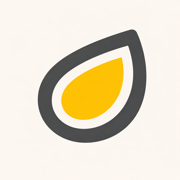
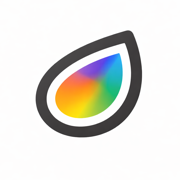
feat: PWA图标更新、字号自定义、餐次判断优化及多项改进
- 更换PWA图标为新设计
- 添加用户自定义字号滑块（我的页面），存localStorage动态生效
- 修复餐次判断：优先用户文本 > 时间推断，避免AI误判为加餐
- 饮食计划弹窗固定最小高度，空状态显示引导提示
- 清理旧预设方案的localStorage残留数据
- 记录页每餐标题旁显示总热量标签
- AI信息收集prompt优化：要求同时收集吃什么和什么时间

Made-with: Cursor

diff --git a/src/pages/Profile.tsx b/src/pages/Profile.tsx
@@ -1,4 +1,4 @@
-import { useState, useMemo } from 'react';
+import { useState, useMemo, useCallback } from 'react';
 import { createPortal } from 'react-dom';
 import { useApp, UserProfile, WeightLog } from '../context/AppContext';
 import { motion, AnimatePresence } from 'motion/react';
@@ -261,6 +261,9 @@ export default function Profile() {
           </div>
         </button>
       </div>
+
+      {/* Font Size Card */}
+      <FontSizeSlider language={language} />
 
       {/* Edit Modal */}
       {createPortal(
@@ -667,5 +670,55 @@ function Row({
         <ChevronRight size={16} className="text-stone-300" />
       </div>
     </button>
+  );
+}
+
+function FontSizeSlider({ language }: { language: 'en' | 'zh' }) {
+  const isZh = language === 'zh';
+  const isStandalone = window.matchMedia('(display-mode: standalone)').matches;
+  const defaultSize = isStandalone ? 18 : 16;
+  const [fontSize, setFontSize] = useState(() => {
+    const saved = localStorage.getItem('app_font_size');
+    return saved ? Number(saved) : defaultSize;
+  });
+
+  const handleChange = useCallback((value: number) => {
+    setFontSize(value);
+    localStorage.setItem('app_font_size', String(value));
+    document.documentElement.style.fontSize = `${value}px`;
+  }, []);
+
+  const handleReset = useCallback(() => {
+    handleChange(defaultSize);
+  }, [defaultSize, handleChange]);
+
+  return (
+    <div className="bg-white rounded-2xl p-4 shadow-sm border border-stone-100">
+      <div className="flex items-center justify-between mb-3">
+        <span className="text-stone-500 text-sm">{isZh ? '字体大小' : 'Font Size'}</span>
+        <button
+          onClick={handleReset}
+          className="text-xs text-stone-400 hover:text-stone-600 transition-colors"
+        >
+          {isZh ? '恢复默认' : 'Reset'}
+        </button>
+      </div>
+      <div className="flex items-center gap-3">
+        <span className="text-xs text-stone-400 shrink-0">A</span>
+        <input
+          type="range"
+          min={14}
+          max={22}
+          step={1}
+          value={fontSize}
+          onChange={e => handleChange(Number(e.target.value))}
+          className="flex-1 accent-stone-900"
+        />
+        <span className="text-lg text-stone-400 shrink-0">A</span>
+      </div>
+      <div className="text-center mt-2">
+        <span className="text-xs text-stone-400">{fontSize}px</span>
+      </div>
+    </div>
   );
 }

diff --git a/src/components/MealPlansModal.tsx b/src/components/MealPlansModal.tsx
@@ -85,17 +85,31 @@ export default function MealPlansModal({ isOpen, onClose, initialPlan }: MealPla
 
             {/* Content */}
             {!selectedPlan ? (
-              <div className="overflow-y-auto p-5">
-                <div className="space-y-3">
-                  {allPlans.map(plan => (
-                    <SwipeablePlanItem 
-                      key={plan.id} 
-                      plan={plan} 
-                      onClick={() => setSelectedPlan(plan)}
-                      onDelete={() => deleteMealPlan(plan.id)}
-                    />
-                  ))}
-                </div>
+              <div className="overflow-y-auto p-5 min-h-[420px]">
+                {allPlans.length > 0 ? (
+                  <div className="space-y-3">
+                    {allPlans.map(plan => (
+                      <SwipeablePlanItem 
+                        key={plan.id} 
+                        plan={plan} 
+                        onClick={() => setSelectedPlan(plan)}
+                        onDelete={() => deleteMealPlan(plan.id)}
+                      />
+                    ))}
+                  </div>
+                ) : (
+                  <div className="flex flex-col items-center justify-center h-full min-h-[360px] text-center">
+                    <div className="w-16 h-16 rounded-full bg-stone-100 flex items-center justify-center mb-4">
+                      <Bookmark size={28} className="text-stone-300" />
+                    </div>
+                    <p className="text-base font-medium text-stone-700 mb-2">
+                      {language === 'zh' ? '饮食计划待添加' : 'No meal plans yet'}
+                    </p>
+                    <p className="text-sm text-stone-400 max-w-[220px]">
+                      {language === 'zh' ? '请在对话页面中点击「生成计划」按钮' : 'Tap "Generate Plan" on the chat page to create one'}
+                    </p>
+                  </div>
+                )}
               </div>
             ) : (
               <>

diff --git a/src/services/ai.ts b/src/services/ai.ts
@@ -258,10 +258,17 @@ Tone & style:
 Your coaching process has 3 phases. Phases MUST proceed in order: 1 → 2 → 3. You MUST NOT skip any phase.
 
 **Phase 1: Information Collection**
-Collect these 8 items one at a time:
-  1) breakfast  2) lunch  3) dinner  4) snacks
-  5) sleep  6) hydration  7) exercise  8) stress & emotional eating
-- Ask exactly one question per turn. Naturally acknowledge the user's answer, then ask the next uncollected item. Do NOT skip any item, do NOT combine multiple questions.
+Collect these items one at a time. For each item, you need BOTH the content AND the timing/frequency. If the user only provides one aspect (e.g. only timing but not what they eat, or only food but not timing), follow up to get the missing info before moving on.
+  1) Breakfast — what they typically eat AND roughly what time
+  2) Lunch — what they typically eat AND roughly what time
+  3) Dinner — what they typically eat AND roughly what time
+  4) Snacks — any snacks/drinks between meals, what kind
+  5) Sleep — bedtime, wake time, sleep quality
+  6) Hydration — daily water intake amount
+  7) Exercise — type, frequency, intensity
+  8) Stress & emotional eating — any stress eating habits or cravings
+- Ask exactly one question per turn. Naturally acknowledge the user's answer, then ask the next uncollected item or follow up for missing details. Do NOT skip any item, do NOT combine multiple questions.
+- IMPORTANT: The goal is to understand WHAT they eat, not just WHEN. If the user only tells you meal times without describing food content, you MUST follow up asking what they usually eat for that meal before moving on.
 - Do NOT analyze, give advice, or generate a meal plan during this phase.
 - If user sends an image, acknowledge briefly and ask the next question. No nutritional analysis, no :::meal_log:::, no "已记录".
 - If user mentions water intake, treat it as their hydration answer and continue.

diff --git a/src/pages/Record.tsx b/src/pages/Record.tsx
@@ -543,7 +543,14 @@ function MealCard({ id, title, items, onEdit, onRemove, emptyText }: {
 }) {
   return (
     <div id={id} className="scroll-mt-6">
-      <h3 className="font-serif text-xl font-medium text-stone-500 mb-3 tracking-tight">{title}</h3>
+      <div className="flex items-baseline justify-between mb-3">
+        <h3 className="font-serif text-xl font-medium text-stone-500 tracking-tight">{title}</h3>
+        {items.length > 0 && (
+          <span className="px-2.5 py-1 rounded-full bg-stone-100 text-xs font-medium text-stone-500">
+            {Math.round(items.reduce((sum, item) => sum + item.calories, 0))} kcal
+          </span>
+        )}
+      </div>
       
       <div className="bg-white rounded-2xl shadow-sm border border-stone-100 overflow-hidden">
         {/* Column Headers */}

diff --git a/src/context/AppContext.tsx b/src/context/AppContext.tsx
@@ -292,7 +292,13 @@ export function AppProvider({ children }: { children: ReactNode }) {
 
   // Custom Meal Plans State
   const [customMealPlans, setCustomMealPlans] = useState<PlanTemplate[]>(() => {
-    return readJsonFromStorage<PlanTemplate[]>('customMealPlans', []);
+    const RETIRED_PRESET_IDS = ['plan_balanced', 'plan_low_carb', 'plan_high_protein'];
+    const saved = readJsonFromStorage<PlanTemplate[]>('customMealPlans', []);
+    const cleaned = saved.filter(p => !RETIRED_PRESET_IDS.includes(p.id));
+    if (cleaned.length !== saved.length) {
+      localStorage.setItem('customMealPlans', JSON.stringify(cleaned));
+    }
+    return cleaned;
   });
 
   const [deletedPlanIds, setDeletedPlanIds] = useState<string[]>(() => {

diff --git a/src/pages/Chat.tsx b/src/pages/Chat.tsx
@@ -549,11 +549,8 @@ export default function Chat() {
       };
 
       const toMealType = (raw: any): MealItem['type'] => {
-        if (raw === 'breakfast' || raw === 'lunch' || raw === 'dinner' || raw === 'snack') return raw;
         const fromUserText = inferMealTypeFromText(combinedText);
         if (fromUserText) return fromUserText;
-        const fromAiText = inferMealTypeFromText(finalAiText);
-        if (fromAiText) return fromAiText;
         const hour = new Date().getHours();
         if (hour >= 5 && hour < 11) return 'breakfast';
         if (hour >= 11 && hour < 16) return 'lunch';

diff --git a/src/main.tsx b/src/main.tsx
@@ -6,6 +6,10 @@ import './index.css';
 
 registerSW({immediate: true});
 
+const savedFontSize = localStorage.getItem('app_font_size');
+const isStandalone = window.matchMedia('(display-mode: standalone)').matches;
+document.documentElement.style.fontSize = savedFontSize ? `${savedFontSize}px` : (isStandalone ? '18px' : '');
+
 createRoot(document.getElementById('root')!).render(
   <StrictMode>
     <App />

diff --git a/src/index.css b/src/index.css
@@ -1,11 +1,5 @@
 @import "tailwindcss";
 
-@media all and (display-mode: standalone) {
-  html {
-    font-size: 18px;
-  }
-}
-
 .no-scrollbar::-webkit-scrollbar {
   display: none;
 }
